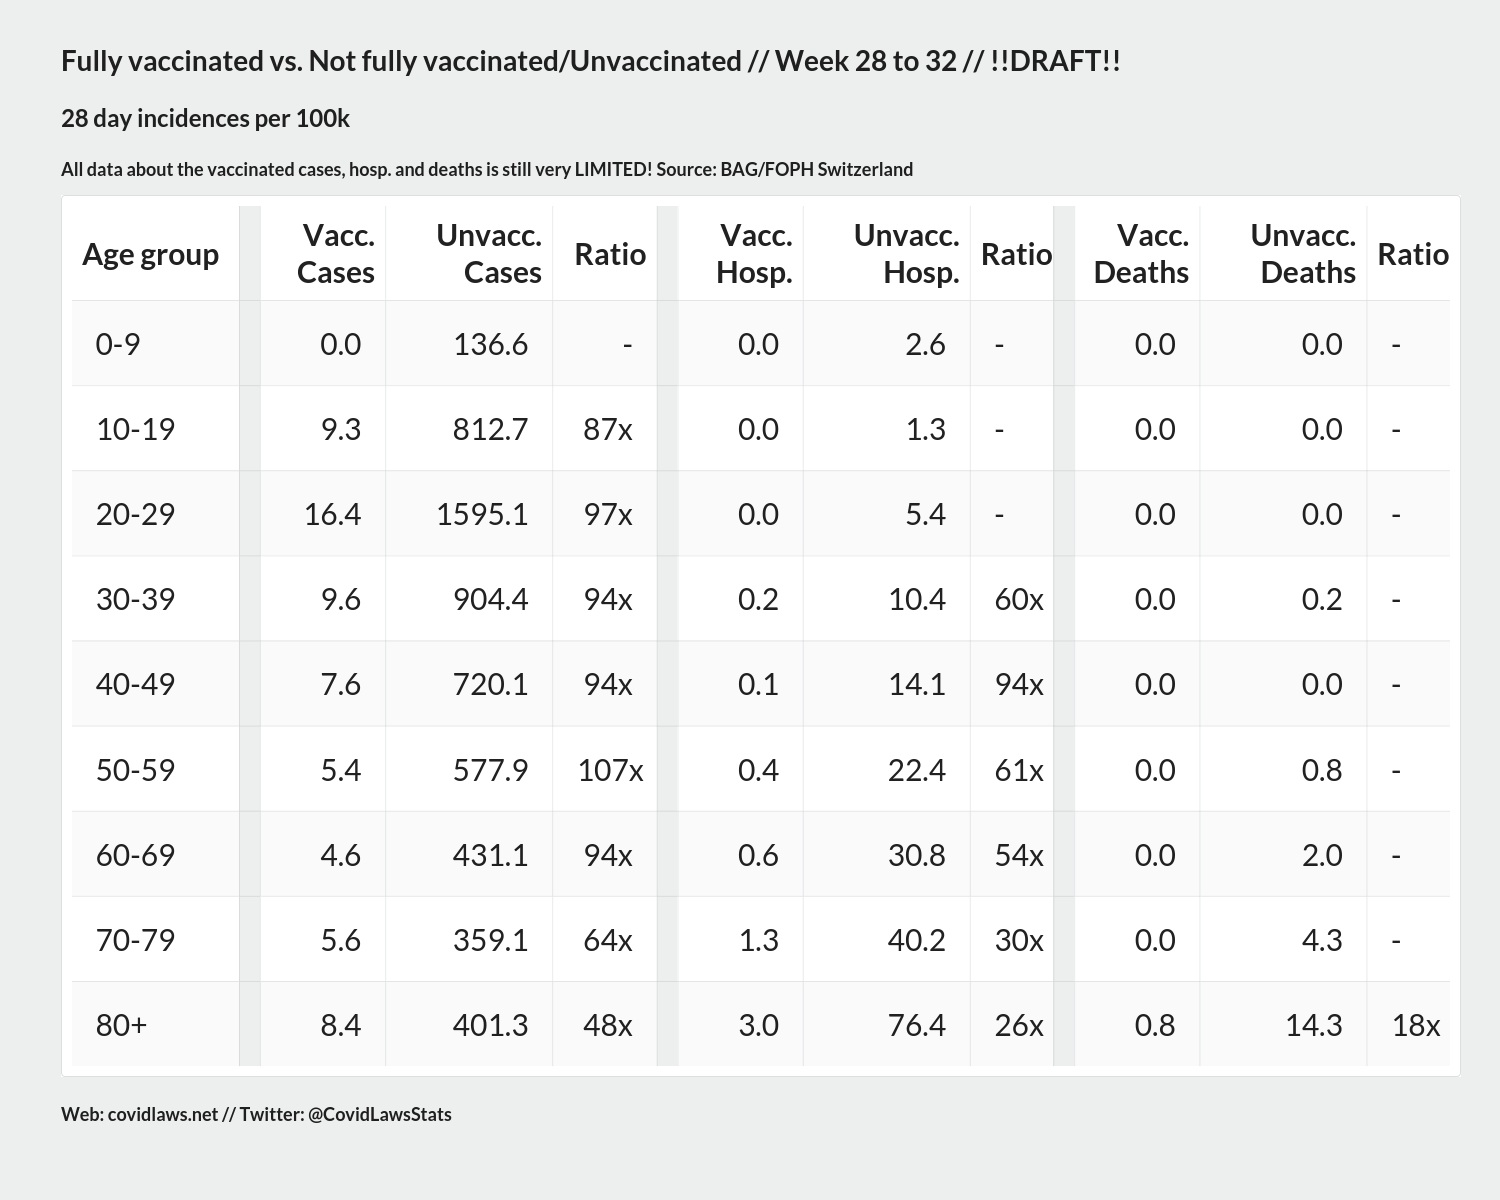
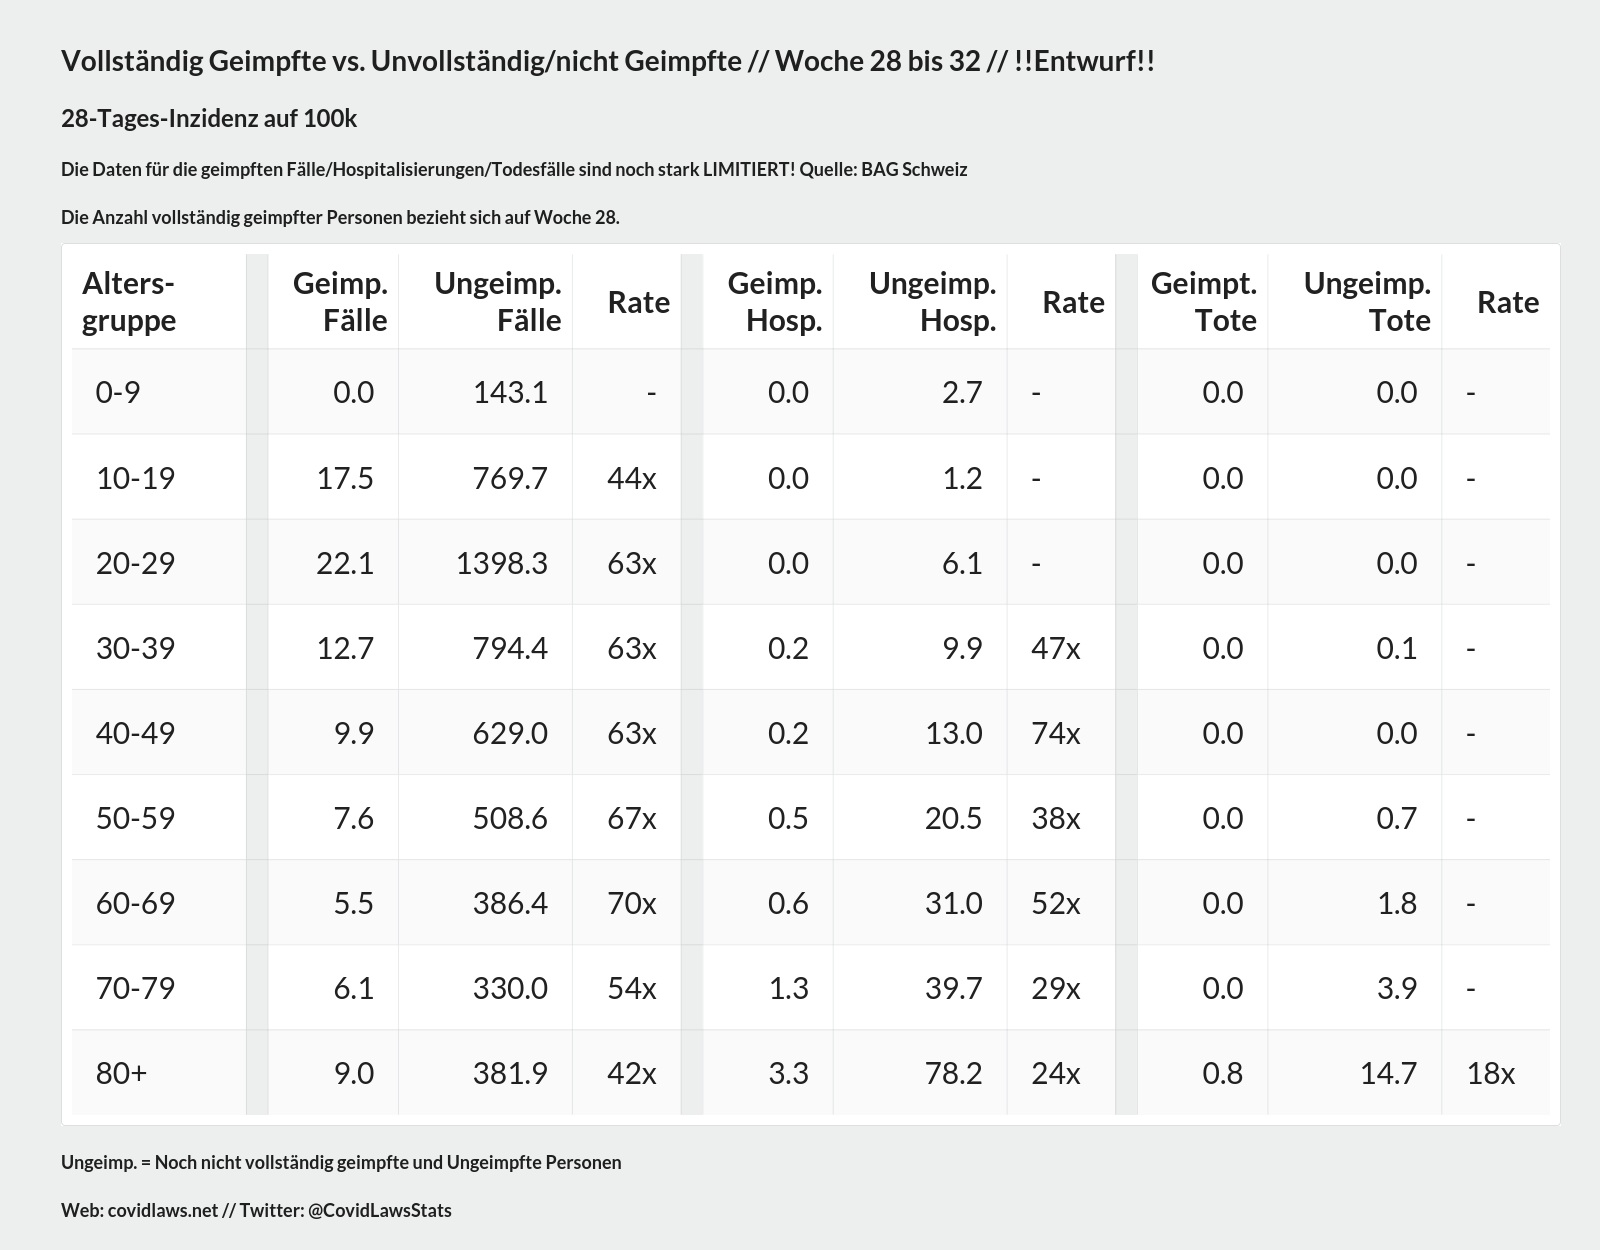
Update covidmeter

diff --git a/measuremeterdata/tasks/socialmedia/tweet_vacc.py b/measuremeterdata/tasks/socialmedia/tweet_vacc.py
@@ -193,15 +193,15 @@ def create_image(week):
         zf = zipfile.ZipFile(BytesIO(resp.read()), 'r')
 
 
-        tot_vacc_0_9 = get_vacced_by_agegroup("0 - 9", date_week,zf)
-        tot_vacc_10_19 = get_vacced_by_agegroup("10 - 19", date_week,zf)
-        tot_vacc_20_29 = get_vacced_by_agegroup("20 - 29", date_week,zf)
-        tot_vacc_30_39 = get_vacced_by_agegroup("30 - 39", date_week,zf)
-        tot_vacc_40_49 = get_vacced_by_agegroup("40 - 49", date_week,zf)
-        tot_vacc_50_59 = get_vacced_by_agegroup("50 - 59", date_week,zf)
-        tot_vacc_60_69 = get_vacced_by_agegroup("60 - 69", date_week,zf)
-        tot_vacc_70_79 = get_vacced_by_agegroup("70 - 79", date_week,zf)
-        tot_vacc_80plus = get_vacced_by_agegroup("80+", date_week,zf)
+        tot_vacc_0_9 = get_vacced_by_agegroup("0 - 9", (date_week-4),zf)
+        tot_vacc_10_19 = get_vacced_by_agegroup("10 - 19", (date_week-4),zf)
+        tot_vacc_20_29 = get_vacced_by_agegroup("20 - 29", (date_week-4),zf)
+        tot_vacc_30_39 = get_vacced_by_agegroup("30 - 39", (date_week-4),zf)
+        tot_vacc_40_49 = get_vacced_by_agegroup("40 - 49", (date_week-4),zf)
+        tot_vacc_50_59 = get_vacced_by_agegroup("50 - 59", (date_week-4),zf)
+        tot_vacc_60_69 = get_vacced_by_agegroup("60 - 69", (date_week-4),zf)
+        tot_vacc_70_79 = get_vacced_by_agegroup("70 - 79", (date_week-4),zf)
+        tot_vacc_80plus = get_vacced_by_agegroup("80+", (date_week-4),zf)
 
         tot_nonvacc_0_9 = pop_0_9 - tot_vacc_0_9
         tot_nonvacc_10_19 = pop_10_19 - tot_vacc_10_19
@@ -213,6 +213,38 @@ def create_image(week):
         tot_nonvacc_70_79 = pop_70_79 - tot_vacc_70_79
         tot_nonvacc_80plus = pop_80plus - tot_vacc_80plus
 
+        print("Vaccinated:")
+        print(tot_vacc_0_9)
+        print(tot_vacc_10_19)
+        print(tot_vacc_20_29)
+        print(tot_vacc_30_39)
+        print(tot_vacc_40_49)
+        print(tot_vacc_50_59)
+        print(tot_vacc_60_69)
+        print(tot_vacc_70_79)
+        print(tot_vacc_80plus)
+
+        print("Non-Vaccinated:")
+        print(tot_nonvacc_0_9)
+        print(tot_nonvacc_10_19)
+        print(tot_nonvacc_20_29)
+        print(tot_nonvacc_30_39)
+        print(tot_nonvacc_40_49)
+        print(tot_nonvacc_50_59)
+        print(tot_nonvacc_60_69)
+        print(tot_nonvacc_70_79)
+        print(tot_nonvacc_80plus)
+
+        print("Rate:")
+        print(tot_vacc_0_9 * 100 / pop_0_9)
+        print(tot_vacc_10_19 * 100 / pop_10_19)
+        print(tot_vacc_20_29 * 100 / pop_20_29)
+        print(tot_vacc_30_39 * 100 / pop_30_39)
+        print(tot_vacc_40_49 * 100 / pop_40_49)
+        print(tot_vacc_50_59 * 100 / pop_50_59)
+        print(tot_vacc_60_69 * 100 / pop_60_69)
+        print(tot_vacc_70_79 * 100 / pop_70_79)
+        print(tot_vacc_80plus * 100 / pop_80plus)
 
         #Cases ------------------------------------------------------------------------
 
@@ -641,9 +673,25 @@ def create_image(week):
         else:
             rel_death_80plus_str = "-"
 
+        print("CSV:")
+        print(f"Week {week -4} to {week}")
+        print(f"Numbers: Incidence 24 days per 100k")
+        print("Age Group;Vacc ppl;Unvacc ppl;Perc. Vacc;Vacc Cases;Unvacc Cases;Ratio Cases;Vacc Hosp.;Unvacc Hosp; Ratio Hosp;Vacc Death;Unvacc Death;Ratio Death")
+        print(f"0 - 9;{tot_vacc_0_9};{tot_nonvacc_0_9};{tot_vacc_0_9 * 100 / pop_0_9};{inz_vacccases_0_9};{inz_nonvacccases_0_9};{rel_cases_0_9_str};{inz_vacchosp_0_9};{inz_nonvacchosp_0_9};{rel_hosp_0_9_str};{inz_vaccdeath_0_9};{inz_nonvaccdeath_0_9};{rel_death_0_9_str};")
+        print(f"10 - 19;{tot_vacc_10_19};{tot_nonvacc_10_19};{tot_vacc_10_19 * 100 / pop_10_19};{inz_vacccases_10_19};{inz_nonvacccases_10_19};{rel_cases_10_19_str};{inz_vacchosp_10_19};{inz_nonvacchosp_10_19};{rel_hosp_10_19_str};{inz_vaccdeath_10_19};{inz_nonvaccdeath_10_19};{rel_death_10_19_str};")
+        print(f"20 - 29;{tot_vacc_20_29};{tot_nonvacc_20_29};{tot_vacc_20_29 * 100 / pop_20_29};{inz_vacccases_20_29};{inz_nonvacccases_20_29};{rel_cases_20_29_str};{inz_vacchosp_20_29};{inz_nonvacchosp_20_29};{rel_hosp_20_29_str};{inz_vaccdeath_20_29};{inz_nonvaccdeath_20_29};{rel_death_20_29_str};")
+        print(f"30 - 39;{tot_vacc_30_39};{tot_nonvacc_30_39};{tot_vacc_30_39 * 100 / pop_30_39};{inz_vacccases_30_39};{inz_nonvacccases_30_39};{rel_cases_30_39_str};{inz_vacchosp_30_39};{inz_nonvacchosp_30_39};{rel_hosp_30_39_str};{inz_vaccdeath_30_39};{inz_nonvaccdeath_30_39};{rel_death_30_39_str};")
+        print(f"40 - 49;{tot_vacc_40_49};{tot_nonvacc_40_49};{tot_vacc_40_49 * 100 / pop_40_49};{inz_vacccases_40_49};{inz_nonvacccases_40_49};{rel_cases_40_49_str};{inz_vacchosp_40_49};{inz_nonvacchosp_40_49};{rel_hosp_40_49_str};{inz_vaccdeath_40_49};{inz_nonvaccdeath_40_49};{rel_death_40_49_str};")
+        print(f"50 - 59;{tot_vacc_50_59};{tot_nonvacc_50_59};{tot_vacc_50_59 * 100 / pop_50_59};{inz_vacccases_50_59};{inz_nonvacccases_50_59};{rel_cases_50_59_str};{inz_vacchosp_50_59};{inz_nonvacchosp_50_59};{rel_hosp_50_59_str};{inz_vaccdeath_50_59};{inz_nonvaccdeath_50_59};{rel_death_50_59_str};")
+        print(f"60 - 69;{tot_vacc_60_69};{tot_nonvacc_60_69};{tot_vacc_60_69 * 100 / pop_60_69};{inz_vacccases_60_69};{inz_nonvacccases_60_69};{rel_cases_60_69_str};{inz_vacchosp_60_69};{inz_nonvacchosp_60_69};{rel_hosp_60_69_str};{inz_vaccdeath_60_69};{inz_nonvaccdeath_60_69};{rel_death_60_69_str};")
+        print(f"70 - 79;{tot_vacc_70_79};{tot_nonvacc_70_79};{tot_vacc_70_79 * 100 / pop_70_79};{inz_vacccases_70_79};{inz_nonvacccases_70_79};{rel_cases_70_79_str};{inz_vacchosp_70_79};{inz_nonvacchosp_70_79};{rel_hosp_70_79_str};{inz_vaccdeath_70_79};{inz_nonvaccdeath_70_79};{rel_death_70_79_str};")
+        print(f"80plus;{tot_vacc_80plus};{tot_nonvacc_80plus};{tot_vacc_80plus * 100 / pop_80plus};{inz_vacccases_80plus};{inz_nonvacccases_80plus};{rel_cases_80plus_str};{inz_vacchosp_80plus};{inz_nonvacchosp_80plus};{rel_hosp_80plus_str};{inz_vaccdeath_80plus};{inz_nonvaccdeath_80plus};{rel_death_80plus_str};")
+
+        print("--------------------------------")
+
     html = f'<html><head><meta charset="UTF-8" /><link rel="stylesheet" href="https://cdnjs.cloudflare.com/ajax/libs/semantic-ui/2.4.1/semantic.min.css"/><script src="https://cdnjs.cloudflare.com/ajax/libs/semantic-ui/2.4.1/semantic.min.js"></script>' \
            '<style>table, th, td { padding: 10px; font-size: 14; }' \
-            '.columnl { float: left; width: 80px; } .columnr { float: left; width: 1400px; }/* Clear floats after the columns */ .row:after {   content: "";   display: table;   clear: both; }' \
+            '.columnl { float: left; width: 80px; } .columnr { float: left; width: 1500px; }/* Clear floats after the columns */ .row:after {   content: "";   display: table;   clear: both; }' \
             '#rotate-text { width: 45px; transform: rotate(90deg); }' \
     '.table td, .table th {'\
         'font-size: 30px;'\
@@ -653,10 +701,11 @@ def create_image(week):
            '<body style="background-color: #edeeee;"><div style="margin-top: 20px;margin-bottom: 20px;">' \
            '<table style="margin-left: auto;margin-right: auto;">' \
            '<tr style="vertical-align: top;"><td>' \
-           f'<h1>Fully vaccinated vs. Not fully vaccinated/Unvaccinated // Week {week - 4} to {week} // !!DRAFT!!</h1>' \
-           f'<h2>28 day incidences per 100k</h2>' \
-           '<h3>All data about the vaccinated cases, hosp. and deaths is still very LIMITED! Source: BAG/FOPH Switzerland</h3>' \
-           '<table class="ui celled table striped" style="width: 1400px;table-layout:fixed">' \
+           f'<h1>Vollständig Geimpfte vs. Unvollständig/nicht Geimpfte // Woche {week - 4} bis {week} // !!Entwurf!!</h1>' \
+           f'<h2>28-Tages-Inzidenz auf 100k</h2>' \
+           '<h3>Die Daten für die geimpften Fälle/Hospitalisierungen/Todesfälle sind noch stark LIMITIERT! Quelle: BAG Schweiz</h3>' \
+           f'<h3>Die Anzahl vollständig geimpfter Personen bezieht sich auf Woche {week-4}.</h3>' \
+           '<table class="ui celled table striped" style="width: 1500px;table-layout:fixed">' \
            '<colgroup>' \
            '<col style="width: 80px;">' \
            '<col style="width: 10px">' \
@@ -666,25 +715,25 @@ def create_image(week):
            '<col style="width: 10px">' \
            '<col style="width: 60px">' \
            '<col style="width: 80px">' \
-           '<col style="width: 40px">' \
+           '<col style="width: 50px">' \
            '<col style="width: 10px">' \
            '<col style="width: 60px">' \
            '<col style="width: 80px">' \
-           '<col style="width: 40px">' \
+           '<col style="width: 50px">' \
            '</colgroup>' \
-           '<tr><th>Age group</th>' \
+           '<tr><th>Alters- gruppe</th>' \
            '<th  style="background-color:#edefee;"></th>' \
-           '<th class="right aligned">Vacc. Cases</th>' \
-           '<th class="right aligned">Unvacc. Cases</th>' \
-           '<th class="right aligned">Ratio</th>' \
+           '<th class="right aligned">Geimp. Fälle</th>' \
+           '<th class="right aligned">Ungeimp. Fälle</th>' \
+           '<th class="right aligned">Rate</th>' \
            '<th style="background-color:#edefee;"></th>' \
-           '<th class="right aligned">Vacc. Hosp.</th>' \
-           '<th class="right aligned">Unvacc. Hosp.</th>' \
-           '<th class="right aligned">Ratio</th>' \
+           '<th class="right aligned">Geimp. Hosp.</th>' \
+           '<th class="right aligned">Ungeimp. Hosp.</th>' \
+           '<th class="right aligned">Rate</th>' \
            '<th style="background-color:#edefee;"></th>' \
-           '<th class="right aligned">Vacc. Deaths</th>' \
-           '<th class="right aligned">Unvacc. Deaths</th>' \
-           '<th class="right aligned">Ratio</th>' \
+           '<th class="right aligned">Geimpt. Tote</th>' \
+           '<th class="right aligned">Ungeimp. Tote</th>' \
+           '<th class="right aligned">Rate</th>' \
            '</tr>' \
            f'<tr><td>0-9</td><td style="background-color:#edefee;"></td><td class="right aligned">{"{:10.1f}".format(inz_vacccases_0_9)}</td><td class="right aligned">{"{:10.1f}".format(inz_nonvacccases_0_9)}</td><td class="right aligned">{rel_cases_0_9_str}</td><td style="background-color:#edefee;"></td><td class="right aligned">{"{:10.1f}".format(inz_vacchosp_0_9)}</td><td class="right aligned">{"{:10.1f}".format(inz_nonvacchosp_0_9)}</td><td>{rel_hosp_0_9_str}</td><td style="background-color:#edefee;"></td><td class="right aligned">{"{:10.1f}".format(inz_vaccdeath_0_9)}</td><td class="right aligned">{"{:10.1f}".format(inz_nonvaccdeath_0_9)}</td><td>{rel_death_0_9_str}</td></tr>' \
            f'<tr><td>10-19</td><td style="background-color:#edefee;"></td><td class="right aligned">{"{:10.1f}".format(inz_vacccases_10_19)}</td><td class="right aligned">{"{:10.1f}".format(inz_nonvacccases_10_19)}</td><td class="right aligned">{rel_cases_10_19_str}</td><td style="background-color:#edefee;"></td><td class="right aligned">{"{:10.1f}".format(inz_vacchosp_10_19)}</td><td class="right aligned">{"{:10.1f}".format(inz_nonvacchosp_10_19)}</td><td>{rel_hosp_10_19_str}</td><td style="background-color:#edefee;"></td><td class="right aligned">{"{:10.1f}".format(inz_vaccdeath_10_19)}</td><td class="right aligned">{"{:10.1f}".format(inz_nonvaccdeath_10_19)}</td><td>{rel_death_10_19_str}</td></tr>' \
@@ -697,10 +746,10 @@ def create_image(week):
            f'<tr><td>80+</td><td style="background-color:#edefee;"></td><td class="right aligned">{"{:10.1f}".format(inz_vacccases_80plus)}</td><td class="right aligned">{"{:10.1f}".format(inz_nonvacccases_80plus)}</td><td class="right aligned">{rel_cases_80plus_str}</td><td style="background-color:#edefee;"></td><td class="right aligned">{"{:10.1f}".format(inz_vacchosp_80plus)}</td><td class="right aligned">{"{:10.1f}".format(inz_nonvacchosp_80plus)}</td><td>{rel_hosp_80plus_str}</td><td style="background-color:#edefee;"></td><td class="right aligned">{"{:10.1f}".format(inz_vaccdeath_80plus)}</td><td class="right aligned">{"{:10.1f}".format(inz_nonvaccdeath_80plus)}</td><td>{rel_death_80plus_str}</td></tr>' \
 
 
-    html += f'</table><h3>Web: covidlaws.net // Twitter: @CovidLawsStats</h3></td></tr></table> </body></html>'
+    html += f'</table><h3>Ungeimp. = Noch nicht vollständig geimpfte und Ungeimpfte Personen</h3><h3>Web: covidlaws.net // Twitter: @CovidLawsStats</h3></td></tr></table> </body></html>'
 
     print(html)
 
-    options = {'width': '1500', 'height': '1200', 'encoding': "UTF-8", }
-    imgkit.from_string(html, "/tmp/out_image.jpg", options=options)
+    options = {'width': '1600', 'height': '1250', 'encoding': "UTF-8", }
+    imgkit.from_string(html, "out_image.jpg", options=options)
 

diff --git a/measuremeterdata/management/commands/importdeaths_eurostat_averages.py b/measuremeterdata/management/commands/importdeaths_eurostat_averages.py
@@ -128,5 +128,7 @@ class Command(BaseCommand):
         getdata(Country.objects.get(pk=24)) #fi
 #        getdata(Country.objects.get(pk=35)) #de incomplete data 2015
         getdata(Country.objects.get(pk=49)) #cy
+        getdata(Country.objects.get(pk=39)) #al
+        getdata(Country.objects.get(pk=53)) #mt
 
 

diff --git a/measuremeterdata/management/commands/importdeaths_eurostat.py b/measuremeterdata/management/commands/importdeaths_eurostat.py
@@ -142,5 +142,7 @@ class Command(BaseCommand):
         getdata(Country.objects.get(pk=24)) #fi
         getdata(Country.objects.get(pk=35)) #de
         getdata(Country.objects.get(pk=49)) #cy
+        getdata(Country.objects.get(pk=39)) #al
+        getdata(Country.objects.get(pk=53)) #mt
 
 
